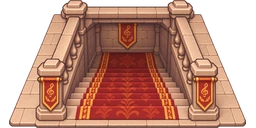
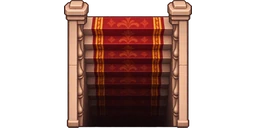
城堡：重畫長桌（整張 6 格）與下樓梯（往下變暗）
- long_table 改成一整張 6 格寬的長桌，酒館不再看得出三段接縫
- stairs_down 重畫成上緣接地板、往下越走越暗，去掉舊圖的紅黃雜邊

diff --git a/assets/js/castle/art.js b/assets/js/castle/art.js
@@ -93,7 +93,7 @@ export const SPRITE_ART = {
   anvil: { src: `${DIR}anvil.webp`, w: 1, h: 1 },
   bottle_shelf: { src: `${DIR}bottle_shelf.webp`, w: 2, h: 1.5 },
   menu_board: { src: `${DIR}menu_board.webp`, w: 2, h: 1.5 },
-  long_table: { src: `${DIR}long_table.webp`, w: 2, h: 1.5 },
+  long_table: { src: `${DIR}long_table.webp`, w: 6, h: 1.5 },
   weapon_rack: { src: `${DIR}weapon_rack.webp`, w: 2, h: 2 },
   rope_fence: { src: `${DIR}rope_fence.webp`, w: 1, h: 1 },
   tool_rack: { src: `${DIR}tool_rack.webp`, w: 2, h: 1.5 },

diff --git a/docs/交接-虛擬城堡.md b/docs/交接-虛擬城堡.md
@@ -76,7 +76,7 @@
    - 提示詞：英文版「共同風格說明」＋「一張正方形畫布排 2×2 共 4 件、彼此留寬的透明間隔、同一比例」＋每件的描述與長寬比；附 1～2 張現有原圖當參考（`table_round.png`、`barrel.png` 等）。一張約 1～2 分鐘，可同時跑 3 張。
    - 切開：用透明度找連在一起的區塊（太小的雜點丟掉），依區塊中心落在哪一格分給哪件，裁到邊界再留一點透明邊。5 張多件圖（20 件）都切得很乾淨。
    - 單獨生的：`stairs_down`、`door_double`、`gate_outer`、`fence_side`、`banner_pole`（大件或要對齊現有圖的）。重生過 2 張：`fence_side` 第一次畫成斜的，`banner_pole` 第一次帶草地背景；在提示詞強調「完全垂直」「不要地面」後就好了。
-   - 已知可再改進：`long_table` 每段都有自己的桌腳和桌巾，接成一排看得出是三段；`stairs_down` 看起來比較像「往下的入口」而不是很明顯的下樓梯。管理員若覺得不好，可再個別重生或用 ChatGPT 重畫。
+   - 重畫（2026-11-05 第二輪）：`long_table` 改成一整張 6 格寬的長桌（`art.js` 的 `w: 6`，剛好對上酒館 6 格的 `T`），不再拼三段；`stairs_down` 改成「上緣接地板、往畫面下方越走越暗」的下樓梯（樓梯在房間下方的牆上，訪客從上面走進去），舊圖邊緣的紅黃雜邊也沒了。第一次重生的版本暗處在上面，放進遊戲方向是反的，提示詞要寫明「第一階在圖的上緣、往下緣下降」。
 2. **多人合奏的聲音（用公會歌的 MIDI，需要管理員決定）**：畫面上的多人合奏已完成（`groups.js`），還沒有聲音。`docs/素材/公會歌/*.mid` 每首都是「主旋律＋5 條和弦」，每條標了樂器（魯特琴、曼陀林、大提琴、長笛、小提琴…）。可以讓演奏室裡每位 NPC 負責一條，人到齊才合奏完整。瀏覽器不能直接播 MIDI，需要合成器與音色（城堡例外允許導入函式庫，但音色檔通常好幾 MB，要先評估大小）；簡單版是請管理員把每條分部各匯出一個 MP3。
 3. 之後再做（需要管理員決定）：像素角色（紙娃娃分層＋程式染色＋程式做動作，另寫同介面的 `SpriteAvatar`；欄位見問卷文件）；手機虛擬方向盤；城堡資料表接試算表與管理頁；成員現役／歷史狀態。互動點子（羊會走動、噴泉許願、射箭命中、打鐵、展示櫃翻頁）已完成。
 
